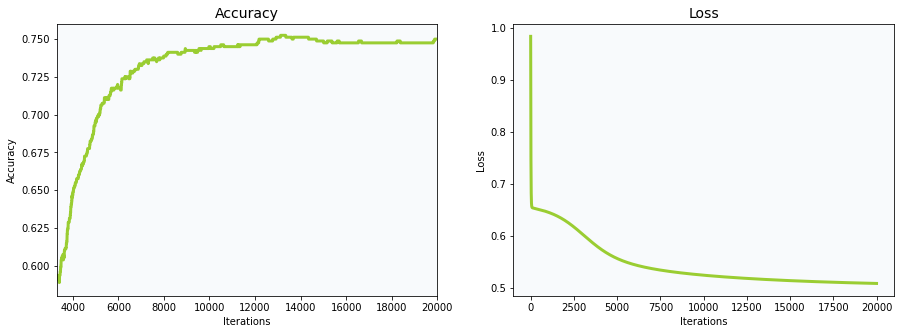
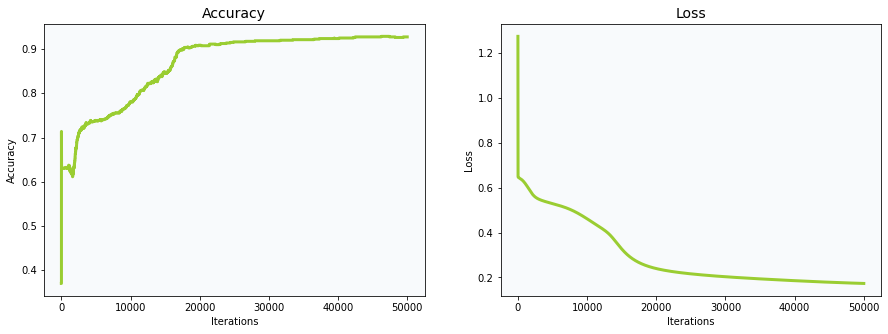
Blog update - Tue 13 Apr 2021 06:08:12 PM CEST

diff --git a/post/building_a_neural_network_from_scratch/index.html b/post/building_a_neural_network_from_scratch/index.html
@@ -109,14 +109,13 @@ Typically, neurons are aggregated into layers. Different layers may perform diff
 <li><a href="#nn_scratch">Neural Network from Scratch</a></li>
 <li><a href="#evaluation">Model evaluation</a></li>
 </ol>
-<h2 id="1background-a-idbackgrounda">1.Background <!-- raw HTML omitted --><!-- raw HTML omitted --></h2>
-<h3 id="summary-of-formulas-and-calculation-steps">Summary of formulas and calculation steps:</h3>
+<h2 id="1background---summary-of-formulas-and-calculation-stepsa-idbackgrounda">1.Background - Summary of formulas and calculation steps<!-- raw HTML omitted --><!-- raw HTML omitted --></h2>
 <h4 id="step-1-forward-propagation">Step 1: Forward Propagation</h4>
-<p>$$ 1^{st} \hspace{2mm}layer\hspace{2mm}summation: Z^{[1]} = W^{[1]}X + b^{[1]}$$</p>
-<p>$$ 1^{st} \hspace{2mm}layer\hspace{2mm}activation: A^{[1]} = g^{[1]}{(Z^{[1]})}$$</p>
-<p>$$ 2^{nd} \hspace{2mm}layer\hspace{2mm}summation: Z^{[2]} = W^{[2]}A^{[1]} + b^{[2]}$$</p>
-<p>$$ 2^{nd} \hspace{2mm}layer\hspace{2mm}activation: A^{[2]} = g^{[2]}{( Z^{[2]} )}$$</p>
-<p>Where $$X = [x_1, x_2, &hellip;, x_N]$$ is the data matrix with N samples, and $$g^{[i]}$$ are the activation functions like Sigmoid: $$g(x) = \frac{1}{1 + exp(-x)}$$</p>
+<p>$$1^{st} \hspace{2mm}layer\hspace{2mm}summation: Z^{[1]} = W^{[1]}X + b^{[1]}$$</p>
+<p>$$1^{st} \hspace{2mm}layer\hspace{2mm}activation: A^{[1]} = g^{[1]}{(Z^{[1]})}$$</p>
+<p>$$2^{nd} \hspace{2mm}layer\hspace{2mm}summation: Z^{[2]} = W^{[2]}A^{[1]} + b^{[2]}$$</p>
+<p>$$2^{nd} \hspace{2mm}layer\hspace{2mm}activation: A^{[2]} = g^{[2]}{( Z^{[2]} )}$$</p>
+<p>Where $$X = [x_1, x_2, &hellip;, x_N]$$ is the data matrix with N samples, and the $$g^{[i]}$$ are the activation functions like Sigmoid: $$g(x) = \frac{1}{1 + exp(-x)}$$</p>
 <h4 id="step-2-loss-function">Step 2: Loss Function</h4>
 <p>$$J = \frac{1}{N} \sum\limits_{i = 0}^{N} \large{(} \small - y^{(i)}\log\left(a^{[2] (i)}\right) - (1-y^{(i)})\log\left(1- a^{[2] (i)}\right) \large{)}$$</p>
 <h4 id="step-3-back-propagation">Step 3: Back Propagation</h4>
@@ -135,7 +134,6 @@ Typically, neurons are aggregated into layers. Different layers may perform diff
 <span style="color:#8b008b;font-weight:bold">import</span> <span style="color:#008b45;text-decoration:underline">matplotlib.pyplot</span> <span style="color:#8b008b;font-weight:bold">as</span> <span style="color:#008b45;text-decoration:underline">plt</span>
 <span style="color:#8b008b;font-weight:bold">from</span> <span style="color:#008b45;text-decoration:underline">sklearn.model_selection</span> <span style="color:#8b008b;font-weight:bold">import</span> train_test_split
 <span style="color:#8b008b;font-weight:bold">from</span> <span style="color:#008b45;text-decoration:underline">sklearn.preprocessing</span> <span style="color:#8b008b;font-weight:bold">import</span> MinMaxScaler
-<span style="color:#8b008b;font-weight:bold">from</span> <span style="color:#008b45;text-decoration:underline">sklearn.neural_network</span> <span style="color:#8b008b;font-weight:bold">import</span> MLPClassifier
 <span style="color:#8b008b;font-weight:bold">from</span> <span style="color:#008b45;text-decoration:underline">sklearn.metrics</span> <span style="color:#8b008b;font-weight:bold">import</span> classification_report
 <span style="color:#8b008b;font-weight:bold">from</span> <span style="color:#008b45;text-decoration:underline">sklearn.metrics</span> <span style="color:#8b008b;font-weight:bold">import</span> confusion_matrix
 <span style="color:#8b008b;font-weight:bold">import</span> <span style="color:#008b45;text-decoration:underline">seaborn</span> <span style="color:#8b008b;font-weight:bold">as</span> <span style="color:#008b45;text-decoration:underline">sns</span>
@@ -176,7 +174,7 @@ plt.title(<span style="color:#cd5555">&#39;Scatter plot of data&#39;</span>)
 plt.legend(loc=<span style="color:#cd5555">&#34;upper left&#34;</span>, facecolor=<span style="color:#cd5555">&#39;white&#39;</span>)
 
 plt.show()
-</code></pre></div><p><img src="https://domsdev.github.io/Data-science-blog/images/Building_a_Neural_Network_from_scratch/2020-10-13/output_21_0.png#c" alt="png"></p>
+</code></pre></div><p><img src="https://domsdev.github.io/Data-science-blog/images/Building_a_Neural_Network_from_scratch/2020-10-13/output_20_0.png#c" alt="png"></p>
 <h2 id="3data-preprocessing-a-iddata_prepa">3.Data Preprocessing <!-- raw HTML omitted --><!-- raw HTML omitted --></h2>
 <h3 id="splitting-dataset">Splitting Dataset</h3>
 <p>Dataset is splitted into training set with 80% of the samples and test set with the remaining 20%, using &ldquo;stratified sampling&rdquo; to ensure that relative class frequencies is approximately preserved in each train and test fold.</p>
@@ -203,7 +201,7 @@ X_test  = scaler.transform(X_test)      <span style="color:#228b22"># transform 
 <div class="highlight"><pre style="background-color:#eed;-moz-tab-size:4;-o-tab-size:4;tab-size:4"><code class="language-python" data-lang="python"><span style="color:#8b008b;font-weight:bold">class</span> <span style="color:#008b45;font-weight:bold">Neural_Network</span>:
     
     <span style="color:#228b22"># Step 1: Implementing initialization function with default parameters</span>
-    <span style="color:#8b008b;font-weight:bold">def</span> __init__(self, n_x = <span style="color:#b452cd">2</span>, n_h = <span style="color:#b452cd">3</span>, n_y = <span style="color:#b452cd">1</span>, lr= <span style="color:#b452cd">0.01</span>, num_iter= <span style="color:#b452cd">100</span>):
+    <span style="color:#8b008b;font-weight:bold">def</span> __init__(self, n_x = <span style="color:#b452cd">2</span>, n_h = <span style="color:#b452cd">3</span>, n_y = <span style="color:#b452cd">1</span>, lr= <span style="color:#b452cd">0.1</span>, num_iter= <span style="color:#b452cd">1000</span>):
         self.W1 = np.random.randn(n_h, n_x)
         self.b1 = np.random.randn(n_h, <span style="color:#b452cd">1</span>)
         self.W2 = np.random.randn(n_y, n_h)
@@ -250,7 +248,7 @@ X_test  = scaler.transform(X_test)      <span style="color:#228b22"># transform 
     <span style="color:#228b22"># Step 7: Implementing the fit function (to train the model on data)</span>
     <span style="color:#8b008b;font-weight:bold">def</span> <span style="color:#008b45">fit</span>(self, X, y):
         loss_history = []
-        accuracy = []
+        accuracy_history = []
         
         <span style="color:#8b008b;font-weight:bold">for</span> <span style="color:#658b00">iter</span> <span style="color:#8b008b">in</span> tqdm(<span style="color:#658b00">range</span>(self.num_iter)):
             y_hat = self.feedforward(X)
@@ -259,9 +257,9 @@ X_test  = scaler.transform(X_test)      <span style="color:#228b22"># transform 
             self.update_parameters()
             
             y_hat = y_hat.round().reshape(-<span style="color:#b452cd">1</span>)
-            accuracy.append((y_hat == y).mean())
+            accuracy_history.append((y_hat == y).mean())
             
-        <span style="color:#8b008b;font-weight:bold">return</span> loss_history, accuracy
+        <span style="color:#8b008b;font-weight:bold">return</span> loss_history, accuracy_history
     
     <span style="color:#228b22"># Step 8: Implementing probability estimation calculation</span>
     <span style="color:#8b008b;font-weight:bold">def</span> <span style="color:#008b45">predict_proba</span>(self, X):
@@ -277,8 +275,8 @@ X_test  = scaler.transform(X_test)      <span style="color:#228b22"># transform 
 N_HIDDEN_LAYER1 = <span style="color:#b452cd">3</span>         <span style="color:#228b22"># nb of neurons of intermediate layer</span>
 N_OUTPUT_LAYER = <span style="color:#b452cd">1</span>          <span style="color:#228b22"># nb of neurons of output layer (gives predicted class 0 or 1)</span>
 
-LEARNING_RATE = <span style="color:#b452cd">0.1</span>
-ITERATIONS = <span style="color:#b452cd">20000</span>
+LEARNING_RATE = <span style="color:#b452cd">0.2</span>
+ITERATIONS = <span style="color:#b452cd">50000</span>
 </code></pre></div><h3 id="-create-an-instance-of-our-neural-network-class">&hellip; create an instance of our Neural Network class</h3>
 <div class="highlight"><pre style="background-color:#eed;-moz-tab-size:4;-o-tab-size:4;tab-size:4"><code class="language-python" data-lang="python">NN_model = Neural_Network(
     n_x = N_INPUT_LAYER,
@@ -287,49 +285,48 @@ ITERATIONS = <span style="color:#b452cd">20000</span>
     lr = LEARNING_RATE,
     num_iter = ITERATIONS)
 </code></pre></div><h3 id="fit-the-model-over-training-set--and-finally-evaluate-our-model-">Fit the model over training set &hellip; and finally evaluate our model !</h3>
-<div class="highlight"><pre style="background-color:#eed;-moz-tab-size:4;-o-tab-size:4;tab-size:4"><code class="language-python" data-lang="python">history, accuracy = NN_model.fit(X_train, y_train)
-</code></pre></div><pre><code>100%|██████████| 20000/20000 [00:08&lt;00:00, 2488.89it/s]
+<div class="highlight"><pre style="background-color:#eed;-moz-tab-size:4;-o-tab-size:4;tab-size:4"><code class="language-python" data-lang="python">loss, accuracy = NN_model.fit(X_train, y_train)
+</code></pre></div><pre><code>100%|██████████| 50000/50000 [00:20&lt;00:00, 2459.90it/s]
 </code></pre>
 <h2 id="5model-evaluationa-idevaluationa">5.Model evaluation<!-- raw HTML omitted --><!-- raw HTML omitted --></h2>
-<h3 id="first-lets-have-a-look-on-accuracy-and-loss-evolution-">First let&rsquo;s have a look on accuracy and loss evolution &hellip;</h3>
+<h3 id="lets-have-a-look-on-our-accuracy-and-loss-evolution-">Let&rsquo;s have a look on our accuracy and loss evolution &hellip;</h3>
 <div class="highlight"><pre style="background-color:#eed;-moz-tab-size:4;-o-tab-size:4;tab-size:4"><code class="language-python" data-lang="python">plt.figure(figsize=(<span style="color:#b452cd">15</span>,<span style="color:#b452cd">5</span>))
 
 plt.subplot(<span style="color:#b452cd">121</span>)
 plt.plot(accuracy, c= <span style="color:#cd5555">&#39;yellowgreen&#39;</span>, linewidth=<span style="color:#b452cd">3</span>)
-plt.xlim([<span style="color:#b452cd">3300</span>, <span style="color:#b452cd">20000</span>]), plt.ylim([<span style="color:#b452cd">0.58</span>, <span style="color:#b452cd">0.76</span>])
 plt.xlabel(<span style="color:#cd5555">&#39;Iterations&#39;</span>), plt.ylabel(<span style="color:#cd5555">&#39;Accuracy&#39;</span>)
 plt.title(<span style="color:#cd5555">&#39;Accuracy&#39;</span>, fontsize = <span style="color:#b452cd">14</span>)
 
 plt.subplot(<span style="color:#b452cd">122</span>)
-plt.plot(history, c= <span style="color:#cd5555">&#39;yellowgreen&#39;</span>, linewidth=<span style="color:#b452cd">3</span>)
+plt.plot(loss, c= <span style="color:#cd5555">&#39;yellowgreen&#39;</span>, linewidth=<span style="color:#b452cd">3</span>)
 plt.xlabel(<span style="color:#cd5555">&#39;Iterations&#39;</span>), plt.ylabel(<span style="color:#cd5555">&#39;Loss&#39;</span>)
 plt.title(<span style="color:#cd5555">&#39;Loss&#39;</span>, fontsize = <span style="color:#b452cd">14</span>)
 
 plt.show()
-</code></pre></div><p><img src="https://domsdev.github.io/Data-science-blog/images/Building_a_Neural_Network_from_scratch/2020-10-13/output_41_0.png#c" alt="png"></p>
+</code></pre></div><p><img src="https://domsdev.github.io/Data-science-blog/images/Building_a_Neural_Network_from_scratch/2020-10-13/output_40_0.png#c" alt="png"></p>
 <h3 id="and-check-the-models-accuracy-on-training-set">&hellip;and check the model&rsquo;s accuracy on training set</h3>
-<div class="highlight"><pre style="background-color:#eed;-moz-tab-size:4;-o-tab-size:4;tab-size:4"><code class="language-python" data-lang="python">y_test_pred = NN_model.predict(X_train)
+<div class="highlight"><pre style="background-color:#eed;-moz-tab-size:4;-o-tab-size:4;tab-size:4"><code class="language-python" data-lang="python">y_train_pred = NN_model.predict(X_train)
 </code></pre></div><div class="highlight"><pre style="background-color:#eed;-moz-tab-size:4;-o-tab-size:4;tab-size:4"><code class="language-python" data-lang="python">train_accuracy = (y_train_pred == y_train).mean()
 <span style="color:#8b008b;font-weight:bold">print</span>(f<span style="color:#cd5555">&#39;Accuracy over training set = {100 * train_accuracy}%&#39;</span>)
-</code></pre></div><pre><code>Accuracy over training set = 73.5%
+</code></pre></div><pre><code>Accuracy over training set = 92.75%
 </code></pre>
 <h3 id="now-lets-check-the-accuracy-of-our-model-on-the-testing-set">Now let&rsquo;s check the accuracy of our model on the testing set</h3>
 <div class="highlight"><pre style="background-color:#eed;-moz-tab-size:4;-o-tab-size:4;tab-size:4"><code class="language-python" data-lang="python">y_test_pred = NN_model.predict(X_test)
 </code></pre></div><div class="highlight"><pre style="background-color:#eed;-moz-tab-size:4;-o-tab-size:4;tab-size:4"><code class="language-python" data-lang="python">test_accuracy = (y_test_pred == y_test).mean()
 <span style="color:#8b008b;font-weight:bold">print</span>(f<span style="color:#cd5555">&#39;Accuracy over testing set = {100 * test_accuracy}%&#39;</span>)
-</code></pre></div><pre><code>Accuracy over testing set = 76.5%
+</code></pre></div><pre><code>Accuracy over testing set = 95.0%
 </code></pre>
 <h3 id="checking-classification-capabilities-with-the-classification-report">Checking classification capabilities with the Classification report</h3>
 <div class="highlight"><pre style="background-color:#eed;-moz-tab-size:4;-o-tab-size:4;tab-size:4"><code class="language-python" data-lang="python">report = classification_report(y_test, y_test_pred)
 <span style="color:#8b008b;font-weight:bold">print</span>(report)
 </code></pre></div><pre><code>              precision    recall  f1-score   support
 
-           0       0.79      0.85      0.82       126
-           1       0.71      0.62      0.66        74
+           0       0.95      0.98      0.96       126
+           1       0.96      0.91      0.93        74
 
-    accuracy                           0.77       200
-   macro avg       0.75      0.74      0.74       200
-weighted avg       0.76      0.77      0.76       200
+    accuracy                           0.95       200
+   macro avg       0.95      0.94      0.95       200
+weighted avg       0.95      0.95      0.95       200
 </code></pre>
 <h3 id="and-finally-checking-classification-errors-with-the-confusion-matrix">And finally checking classification errors with the Confusion Matrix</h3>
 <div class="highlight"><pre style="background-color:#eed;-moz-tab-size:4;-o-tab-size:4;tab-size:4"><code class="language-python" data-lang="python">cf_matrix = confusion_matrix(y_test, y_test_pred)
@@ -348,7 +345,7 @@ plt.ylabel(<span style="color:#cd5555">&#39;True labels&#39;</span>, size=<span 
 plt.xlabel(<span style="color:#cd5555">&#39;Predicted labels&#39;</span>, size=<span style="color:#b452cd">16</span>)
 
 plt.show()
-</code></pre></div><p><img src="https://domsdev.github.io/Data-science-blog/images/Building_a_Neural_Network_from_scratch/2020-10-13/output_52_0.png#c" alt="png"></p>
+</code></pre></div><p><img src="https://domsdev.github.io/Data-science-blog/images/Building_a_Neural_Network_from_scratch/2020-10-13/output_51_0.png#c" alt="png"></p>
       
       <div class="related">
 
